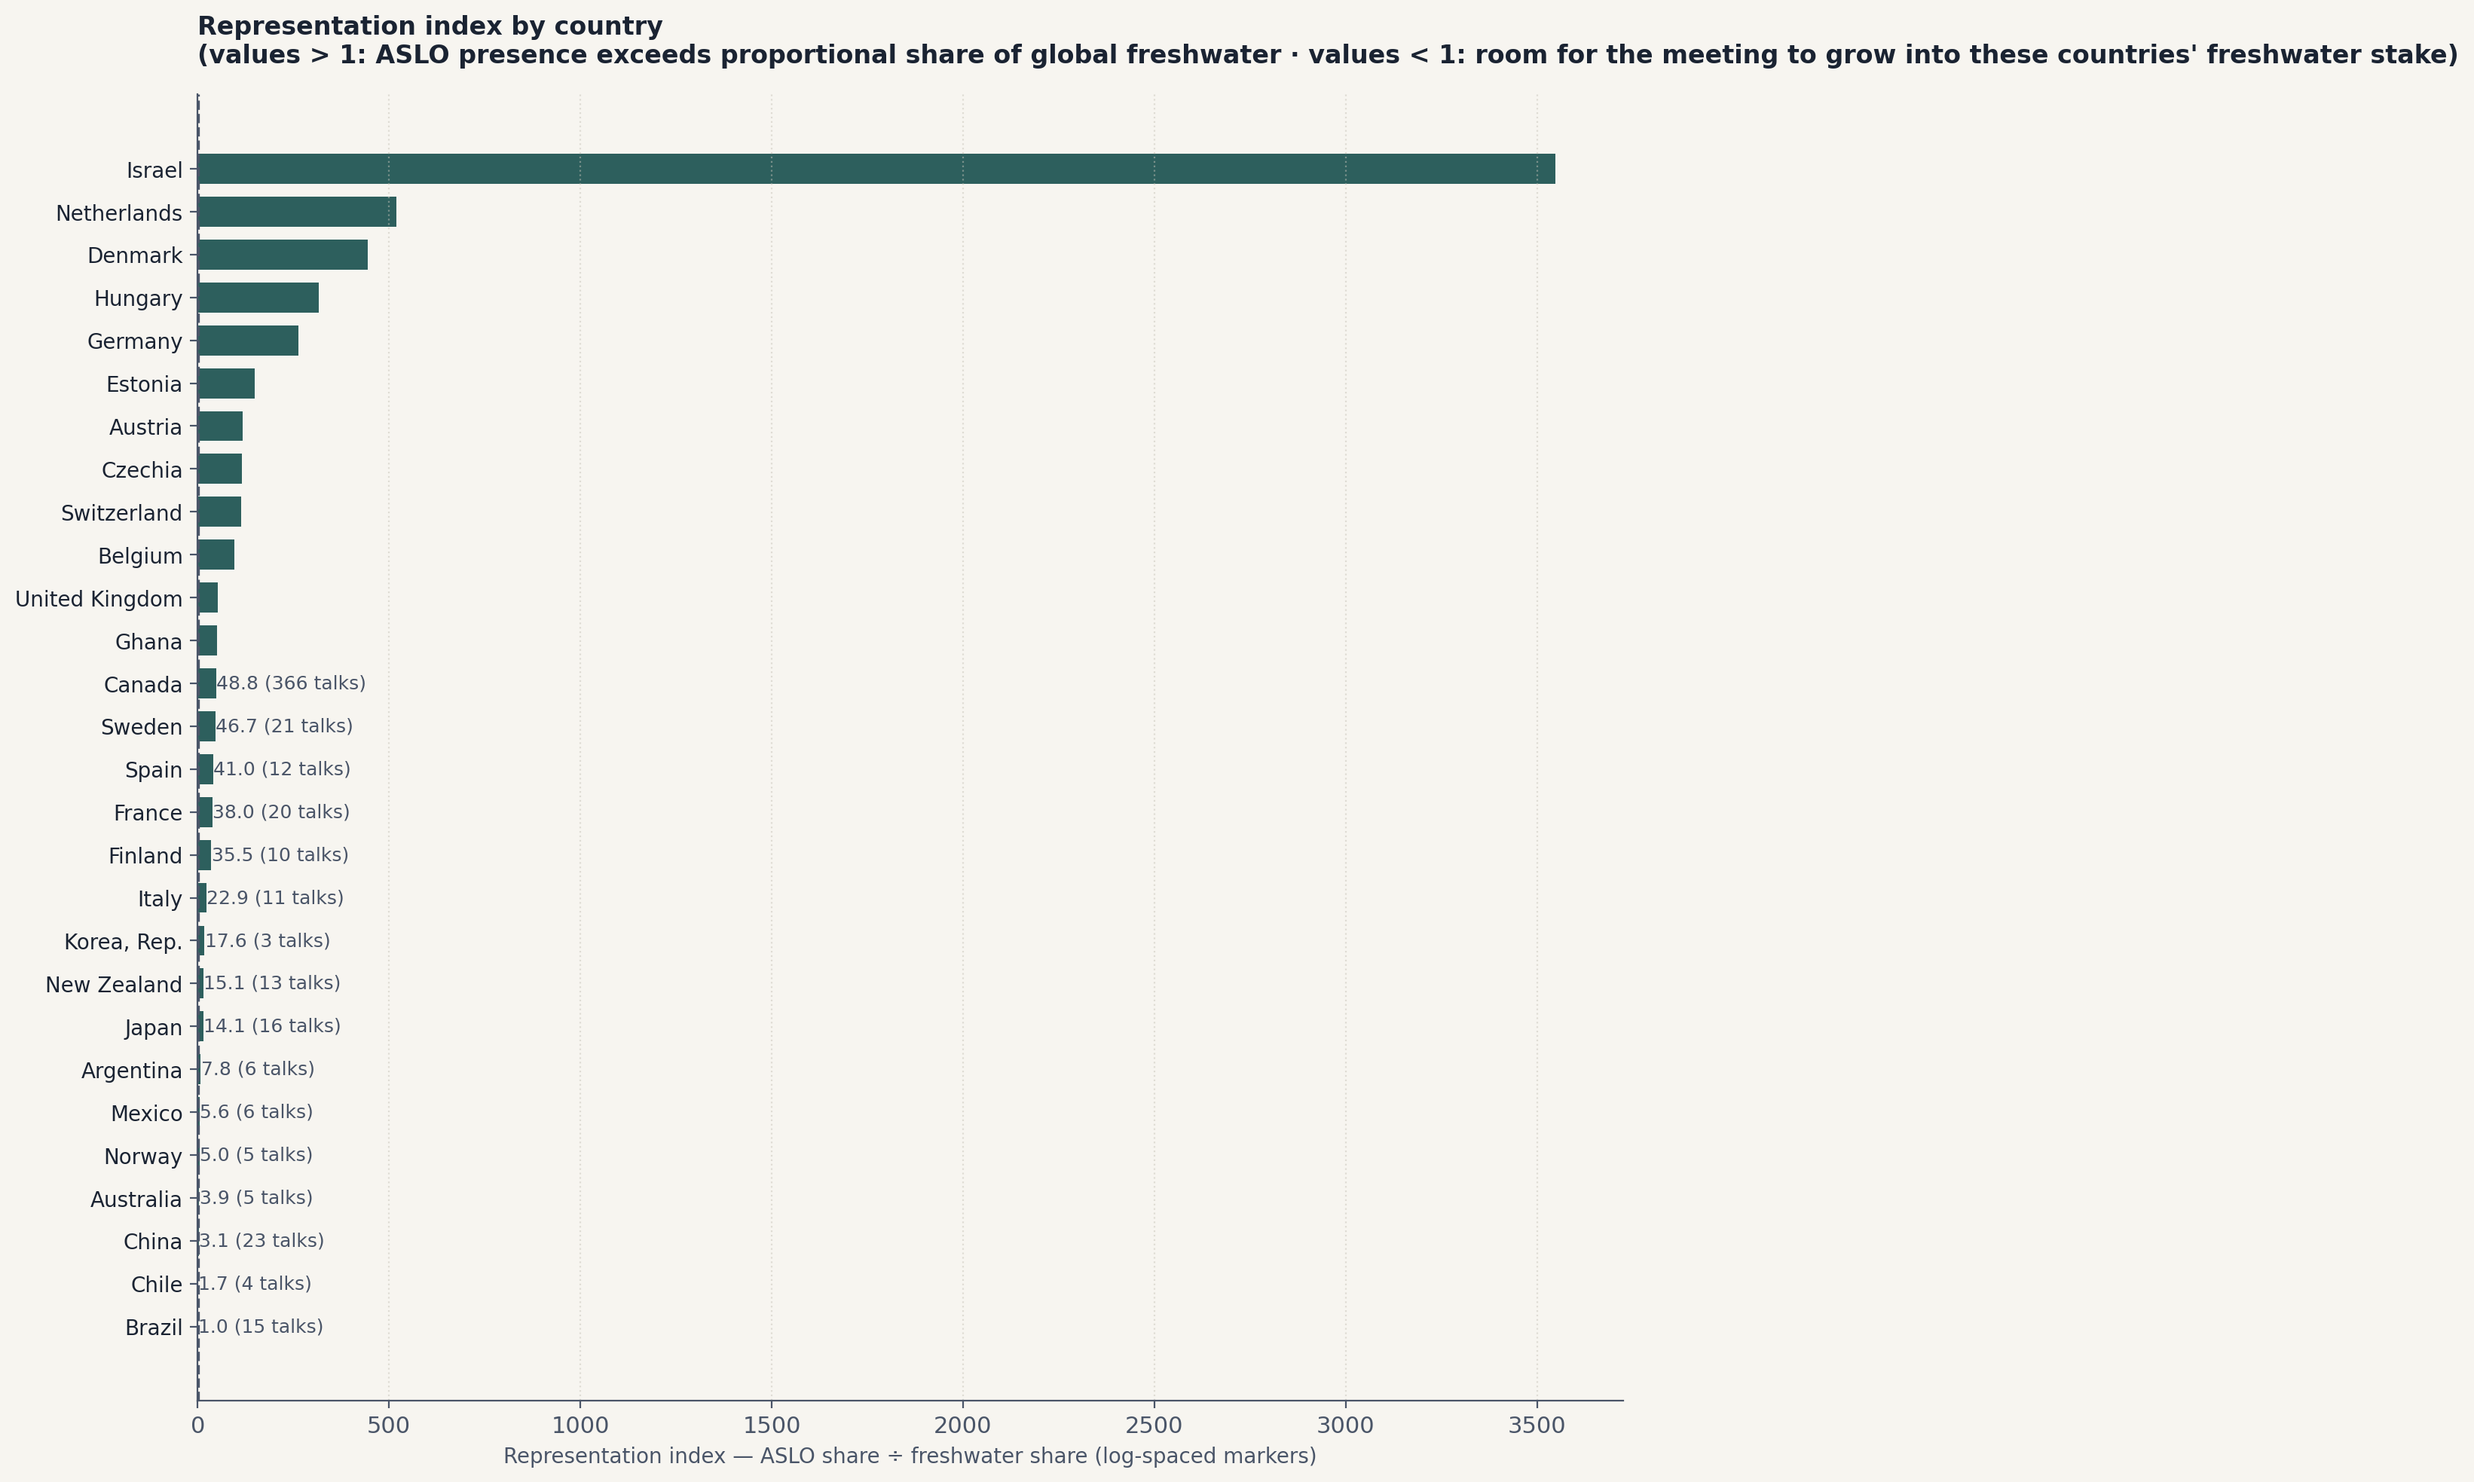
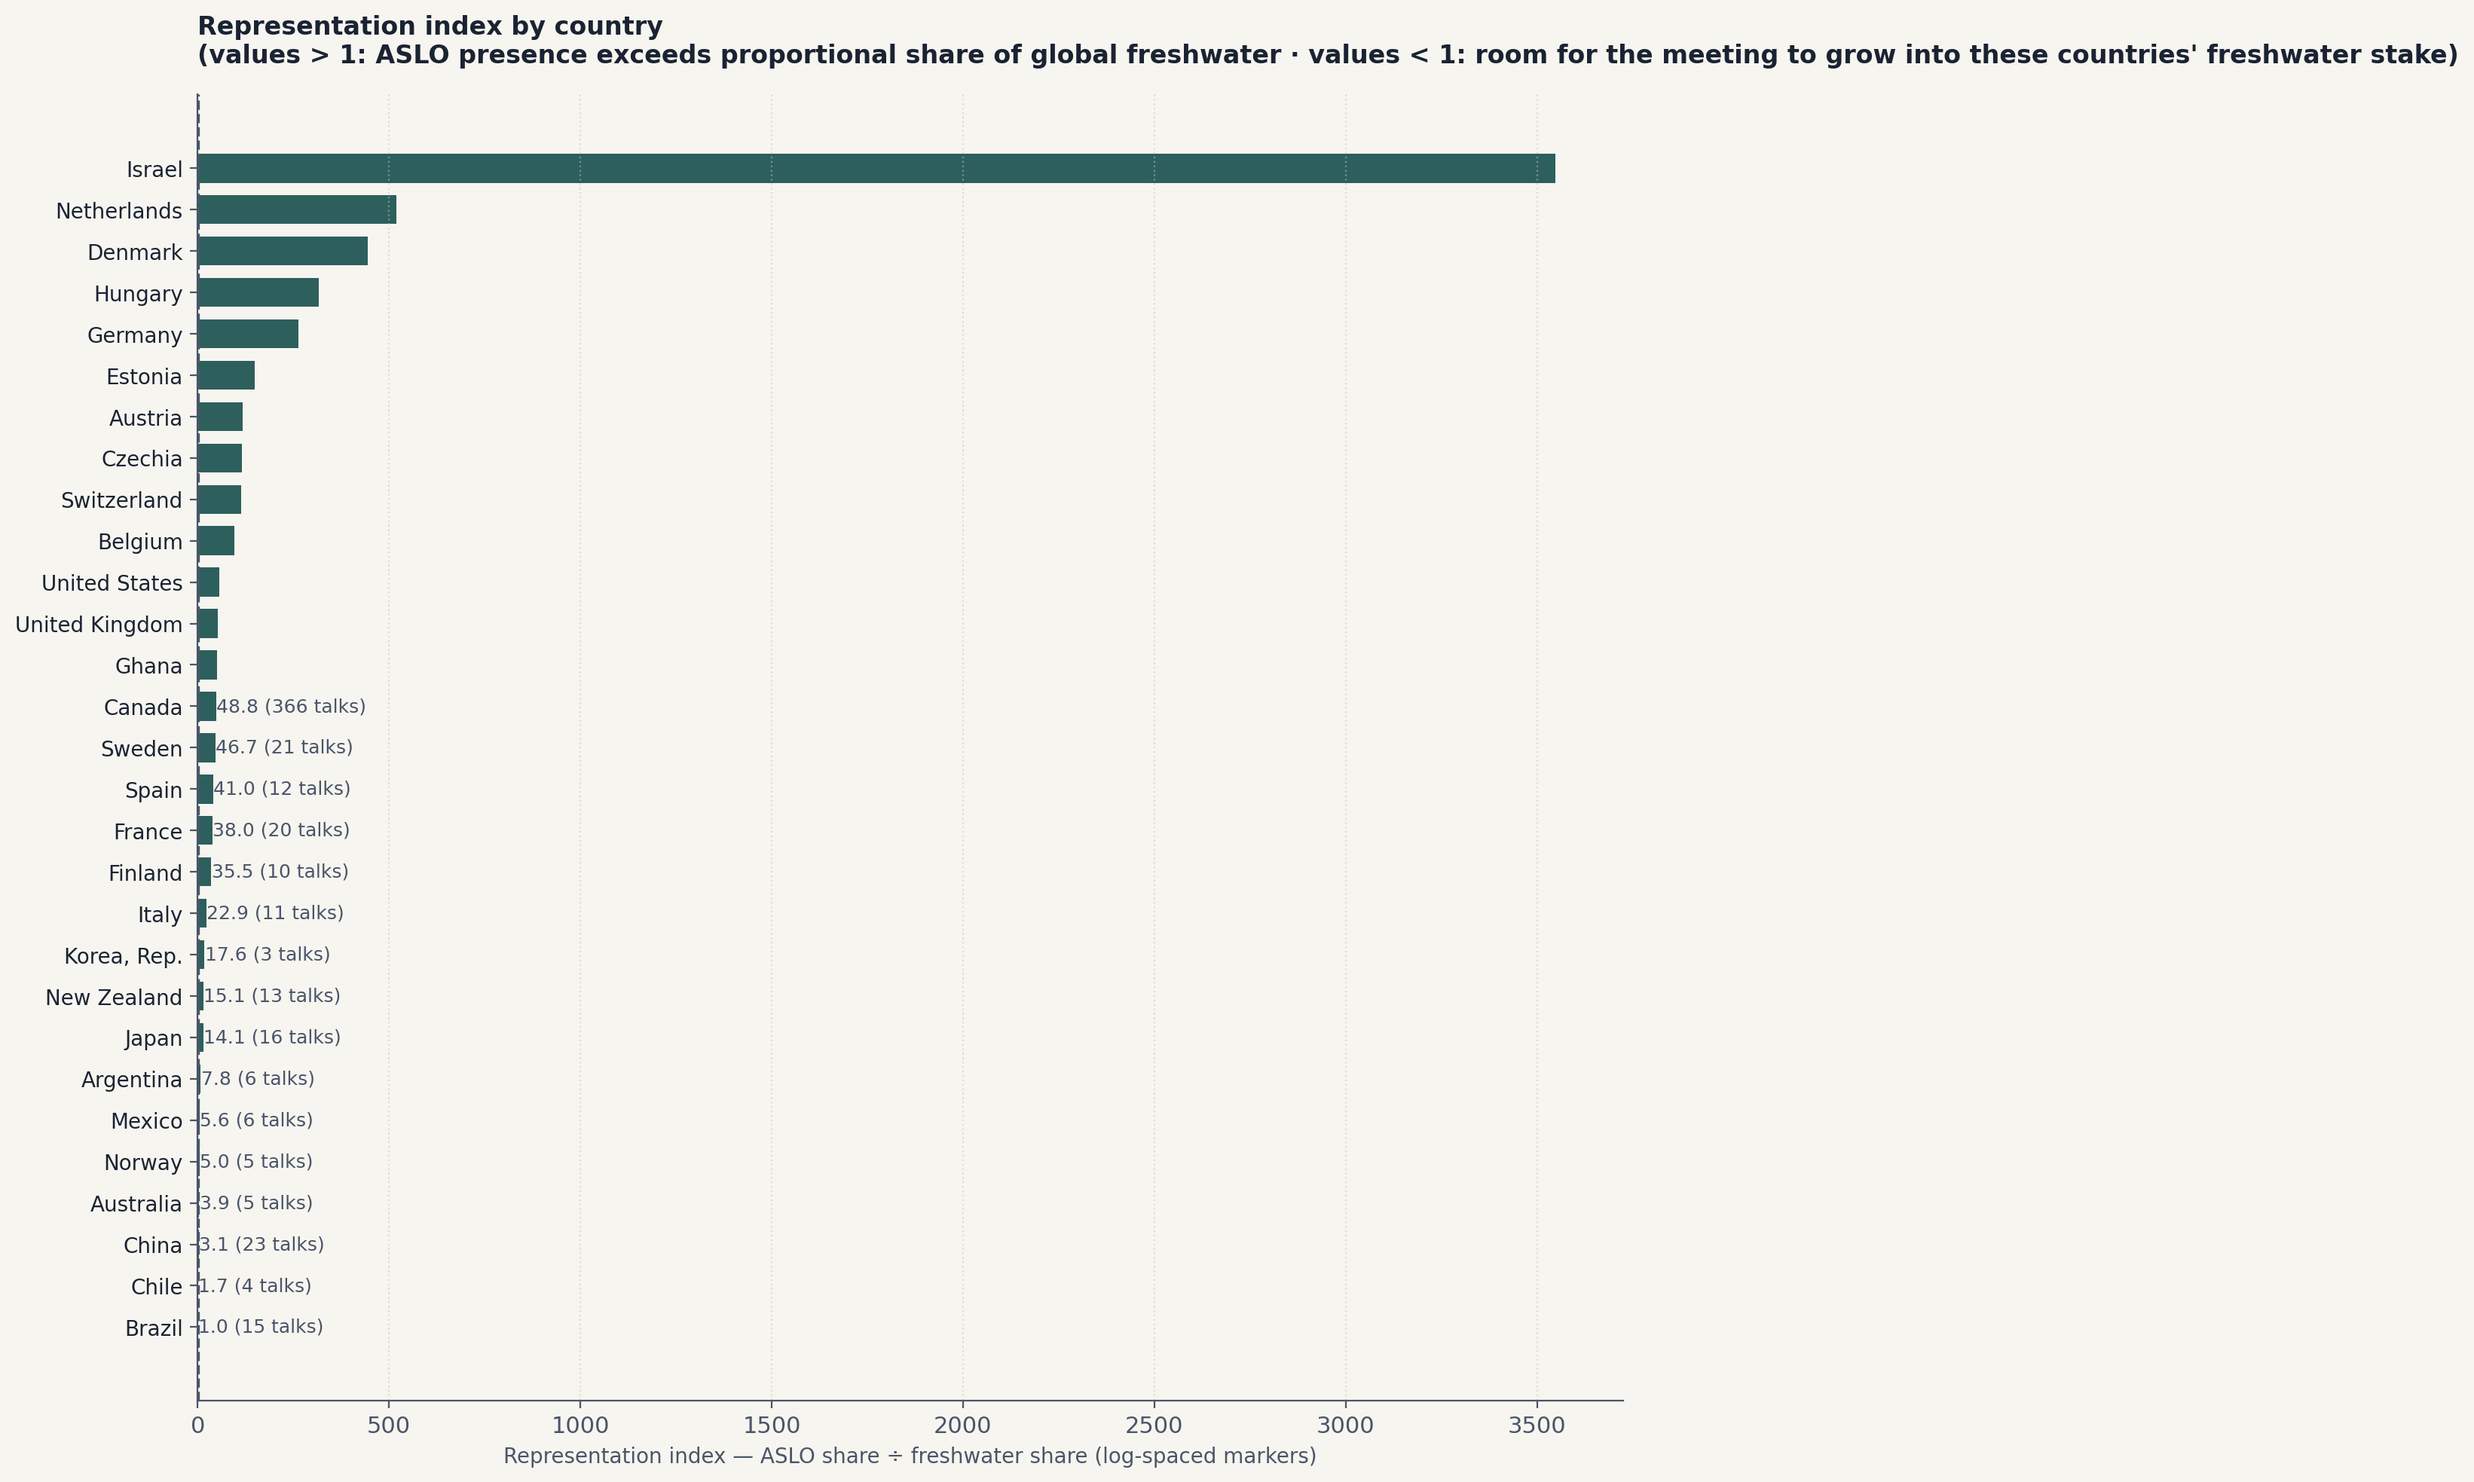
Fix: USA was dropped from freshwater analysis (name mismatch)
Two bugs in 05_freshwater_vs_participation.py:
1. USA affiliations were tagged 'USA' but World Bank API uses 'United States'.
   USA fell silently through the join. Now correctly shown as 422 talks
   (37.1% of the program), freshwater rep index 56.9.
2. The 'high freshwater, no ASLO talks' list was polluted by World Bank
   aggregate groupings (World, IDA & IBRD, OECD, Latin America, income
   tiers, etc). Filter added; list now shows real countries — Russia,
   Colombia, Indonesia, Peru, India, DRC, Venezuela, PNG, etc.

Changed region(s): [[0.0, 0.124, 0.1553, 0.8683]]

diff --git a/scripts/05_freshwater_vs_participation.py b/scripts/05_freshwater_vs_participation.py
@@ -37,7 +37,7 @@ for d in [OUT_CHARTS, OUT_TABLES, OUT_REPORTS]:
 
 # ============ 1. Pull ASLO country counts ============
 COUNTRY_PATS = {
-    "USA": [r"\bUSA\b", r"\bUnited States\b", r"\.edu\b", r"\.gov\b"],
+    "United States": [r"\bUSA\b", r"\bUnited States\b", r"\.edu\b", r"\.gov\b"],
     "Canada": [r"\bCanada\b", r"\bQu[eé]bec\b(?!.*France)", r"Ontario", r"British Columbia", r"\.ca\b"],
     "Germany": [r"\bGermany\b", r"Berlin\b(?! State)", r"M[uü]nchen", r"Bremen", r"Leibniz", r"Helmholtz", r"\.de\b"],
     "United Kingdom": [r"\bUK\b", r"\bUnited Kingdom\b", r"\bEngland\b", r"\bScotland\b", r"Cambridge\b", r"Oxford\b", r"\.uk\b"],
@@ -178,11 +178,34 @@ for country, talks in aslo_counts.items():
     records.append(rec)
 
 # Also: countries with significant freshwater BUT no ASLO talks
+# Filter out World Bank aggregate groupings (regions, income groups, etc.)
+AGGREGATE_PATTERNS = [
+    "World", "income", "IDA", "IBRD", "OECD", "Euro area", "European Union",
+    "Africa Eastern", "Africa Western", "Sub-Saharan", "Latin America",
+    "East Asia & Pacific", "Europe & Central Asia", "Middle East & North Africa",
+    "South Asia", "North America", "Central Europe", "Heavily indebted",
+    "demographic dividend", "Fragile", "Small states", "Arab World",
+    "Caribbean small states", "Pacific island", "Other small states",
+    "Least developed", "Post-demographic", "Pre-demographic", "Early-demographic",
+    "Late-demographic", "Lower middle", "Upper middle", "Middle income",
+    "Low income", "High income",
+]
+def is_aggregate(name):
+    return any(p in name for p in AGGREGATE_PATTERNS)
+
 big_fresh_no_aslo = []
-for country, fw in sorted(fresh.items(), key=lambda x: -x[1])[:40]:
-    if country not in aslo_counts and fw > 100:
-        big_fresh_no_aslo.append({"country": country, "freshwater_bcm": fw,
-                                   "freshwater_share_pct": 100*fw/world_total_fresh})
+for country, fw in sorted(fresh.items(), key=lambda x: -x[1]):
+    if country in aslo_counts: continue
+    if is_aggregate(country): continue
+    if fw < 100: continue
+    big_fresh_no_aslo.append({"country": country, "freshwater_bcm": fw,
+                               "freshwater_share_pct": 100*fw/world_total_fresh})
+    if len(big_fresh_no_aslo) >= 25:
+        break
+
+# Also recompute world total excluding aggregates (more honest)
+world_total_real = sum(v for k, v in fresh.items() if not is_aggregate(k))
+print("  World total (excluding aggregate groupings): {:.0f} bcm/yr".format(world_total_real))
 
 # Sort by absolute ASLO presence
 records_sorted = sorted([r for r in records if r["freshwater_bcm"]],

diff --git a/output/reports/freshwater_vs_participation.md b/output/reports/freshwater_vs_participation.md
@@ -21,12 +21,13 @@ The index is **descriptive, not normative.** Low-index countries are not "doing 
 
 - Total country-detected presentations: **1138** of 1461
 - World renewable internal freshwater (sum of WB country values): **432613 bcm/yr**
-- Countries represented with both metrics: **32**
+- Countries represented with both metrics: **33**
 
 ## Top countries by ASLO presentations (with freshwater context)
 
 | Country | Talks | % of ASLO | Freshwater (bcm/yr) | % of global FW | Rep index |
 |---|---:|---:|---:|---:|---:|
+| United States | 422 | 37.1% | 2818 | 0.65% | 56.93 |
 | Canada | 366 | 32.2% | 2850 | 0.66% | 48.82 |
 | Germany | 74 | 6.5% | 107 | 0.02% | 262.91 |
 | China | 23 | 2.0% | 2813 | 0.65% | 3.11 |
@@ -46,7 +47,6 @@ The index is **descriptive, not normative.** Low-index countries are not "doing 
 | Israel | 7 | 0.6% | 1 | 0.00% | 3548.09 |
 | Argentina | 6 | 0.5% | 292 | 0.07% | 7.81 |
 | Mexico | 6 | 0.5% | 409 | 0.09% | 5.58 |
-| Norway | 5 | 0.4% | 382 | 0.09% | 4.98 |
 
 ## Countries where the meeting punches well above its freshwater stake
 
@@ -88,21 +88,21 @@ These are the freshwater systems most absent from the room. Each represents a pa
 
 | Country | Freshwater (bcm/yr) | % of global FW |
 |---|---:|---:|
-| World | 42809 | 9.90% |
-| IDA & IBRD total | 33756 | 7.80% |
-| Low & middle income | 26997 | 6.24% |
-| IBRD only | 26770 | 6.19% |
-| Middle income | 24800 | 5.73% |
-| Late-demographic dividend | 18270 | 4.22% |
-| Upper middle income | 17668 | 4.08% |
-| High income | 14885 | 3.44% |
-| Latin America & Caribbean | 13868 | 3.21% |
-| Latin America & the Caribbean (IDA & IBRD countries) | 13822 | 3.19% |
-| OECD members | 12757 | 2.95% |
-| Early-demographic dividend | 12082 | 2.79% |
-| Latin America & Caribbean (excluding high income) | 11583 | 2.68% |
-| East Asia & Pacific | 10106 | 2.34% |
-| Post-demographic dividend | 8884 | 2.05% |
+| Russian Federation | 4312 | 1.00% |
+| Colombia | 2145 | 0.50% |
+| Indonesia | 2019 | 0.47% |
+| Peru | 1641 | 0.38% |
+| India | 1446 | 0.33% |
+| Myanmar | 1003 | 0.23% |
+| Congo, Dem. Rep. | 900 | 0.21% |
+| Venezuela, RB | 805 | 0.19% |
+| Papua New Guinea | 801 | 0.19% |
+| Malaysia | 580 | 0.13% |
+| Philippines | 479 | 0.11% |
+| Ecuador | 442 | 0.10% |
+| Viet Nam | 359 | 0.08% |
+| Madagascar | 337 | 0.08% |
+| Middle East, North Africa, Afghanistan & Pakistan | 333 | 0.08% |
 
 ## The structural picture
 
